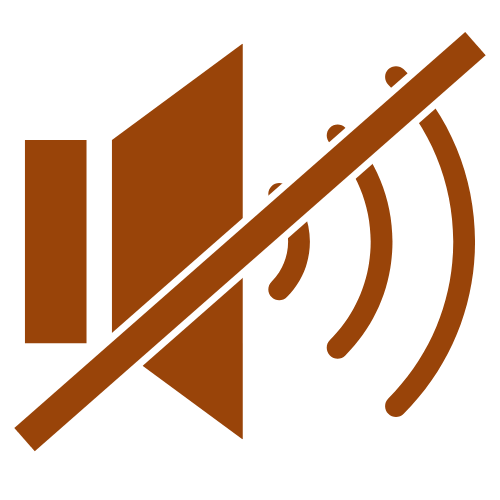
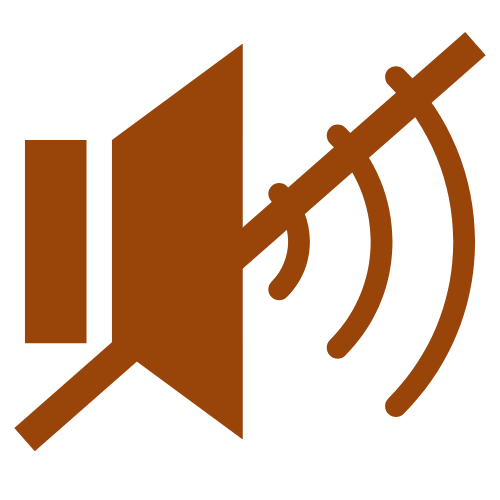
Added local storage for mute function – Game sound and background music can now be muted independently.

diff --git a/js/models/sound-mute.class.js b/js/models/sound-mute.class.js
@@ -8,23 +8,38 @@ class SoundsMuteIcon extends MovableObject {
     super();
 
     this.loadImage(this.nonMute);
-
     this.x = 650;
     this.y = 20;
     this.width = 50;
     this.height = 50;
 
+   
+    const storedSoundStatus = localStorage.getItem("soundMuted");
+    if (storedSoundStatus === "true") {
+      this.isMuted = true;
+      this.loadImage(this.mute);
+      
+    
+      if (this.world) {
+        this.world.jumpSound.setMute(true);
+        this.world.coinSound.setMute(true);
+        this.world.snoreSound.setMute(true);
+        this.world.bottleBrokenSound.setMute(true);
+        this.world.bottleCollectSound.setMute(true);
+        this.world.chickenHitSound.setMute(true);
+        this.world.characterHitSound.setMute(true);
+        this.world.buySound.setMute(true);
+        this.world.throwSound.setMute(true);
+      }
+    }
 
     canvas.addEventListener('click', this.onClick.bind(this));
   }
 
   onClick(event) {
-
     const rect = canvas.getBoundingClientRect();
-
     const mouseX = event.clientX - rect.left;
     const mouseY = event.clientY - rect.top;
-
 
     if (
       mouseX >= this.x && mouseX <= this.x + this.width &&
@@ -35,22 +50,24 @@ class SoundsMuteIcon extends MovableObject {
   }
 
   toggleSound() {
-   
     this.isMuted = !this.isMuted;
     const newImage = this.isMuted ? this.mute : this.nonMute;
     this.loadImage(newImage);
+
    
-    this.world.jumpSound.muted = this.isMuted ? true : false;
-    this.world.coinSound.muted       = this.isMuted ? true : false;
-    this.world.snoreSound.muted      = this.isMuted ? true : false;
-    this.world.bottleBrokenSound.muted  = this.isMuted ? true : false;
-    this.world.bottleCollectSound.muted = this.isMuted ? true : false;
-    this.world.chickenHitSound.muted    = this.isMuted ? true : false;
-    this.world.characterHitSound.muted  = this.isMuted ? true : false;
-    this.world.buySound.muted        = this.isMuted ? true : false;
-    this.world.throwSound.muted      = this.isMuted ? true : false;
-    
+    localStorage.setItem("soundMuted", this.isMuted.toString());
 
-
+    if (this.world) {
+      this.world.jumpSound.setMute(this.isMuted);
+      this.world.coinSound.setMute(this.isMuted);
+      this.world.snoreSound.setMute(this.isMuted);
+      this.world.bottleBrokenSound.setMute(this.isMuted);
+      this.world.bottleCollectSound.setMute(this.isMuted);
+      this.world.chickenHitSound.setMute(this.isMuted);
+      this.world.characterHitSound.setMute(this.isMuted);
+      this.world.buySound.setMute(this.isMuted);
+      this.world.throwSound.setMute(this.isMuted);
+    }
   }
 }
+

diff --git a/js/models/world.class.js b/js/models/world.class.js
@@ -14,13 +14,13 @@ class World {
   jumpSound = new PlayAudio("audio/jumppp11.ogg", false, 1);
   coinSound = new PlayAudio("audio/coin.mp3", false, 1 );
   snoreSound = new PlayAudio("audio/big-snore.mp3", true, 1 );
-  bottleBrokenSound = new PlayAudio("audio/bottle-broken.mp3", false,1);
-  bottleCollectSound = new PlayAudio("audio/glass-clinking.mp3", false, 1);
-  chickenHitSound = new PlayAudio("audio/chicken-hit.mp3", false, 1);
-  characterHitSound = new PlayAudio("audio/hit.mp3", false, 1);
-  buySound = new PlayAudio("audio/buy.mp3", false, 1);
-  throwSound = new PlayAudio("audio/throw.mp3", false, 1);
-  backgroundSound = new PlayAudio("audio/level-ix-211054.mp3", true, 0.8);
+  bottleBrokenSound = new PlayAudio("audio/bottle-broken.mp3", false,1,false);
+  bottleCollectSound = new PlayAudio("audio/glass-clinking.mp3", false, 1,false);
+  chickenHitSound = new PlayAudio("audio/chicken-hit.mp3", false, 1,false);
+  characterHitSound = new PlayAudio("audio/hit.mp3", false, 1,false);
+  buySound = new PlayAudio("audio/buy.mp3", false, 1 ,false);
+  throwSound = new PlayAudio("audio/throw.mp3", false, 1, false);
+  backgroundSound = new PlayAudio("audio/level-ix-211054.mp3", true, 0.8, true);
   SoundsMuteIcon = new SoundsMuteIcon();
   musicMuteIcon = new MusicsMuteIcon();
   
@@ -37,6 +37,7 @@ class World {
     this.draw();
     this.setWorld();
     this.run();
+    
     
   }
 
@@ -56,7 +57,6 @@ class World {
       this.checkCollisionBottleCollectib();
       this.checkCollisionCoinCollectib();
       this.checkCollisionSalsaStore();
-      this.backgroundSound.play();
     }, 50);
   }
 
@@ -177,7 +177,6 @@ class World {
 
   checkCollisionSalsaStore() {
     const now = Date.now();
-    // Überspringe den Kauf, wenn seit dem letzten Kauf weniger als 500ms vergangen sind
     if (this.lastPurchaseTime && now - this.lastPurchaseTime < 500) {
       return;
     }
@@ -229,6 +228,7 @@ class World {
     requestAnimationFrame(function () {
       self.draw();
     });
+  this.startBackroundsound()
   }
 
   addObjectsToMap(objects) {
@@ -257,4 +257,25 @@ class World {
     this.ctx.scale(-1, 1);
     mo.x = mo.x * -1;
   }
+
+
+  startBackroundsound() {
+    
+    let storedMuteStatus = localStorage.getItem("MusikMute");
+    
+    
+    if (storedMuteStatus === null) {
+      localStorage.setItem("MusikMute", "false");
+      storedMuteStatus = "false";
+    }
+    
+    
+    if (storedMuteStatus === "false") {
+      this.backgroundSound.play();
+    }
+  }
+  
+
+
 }
+

diff --git a/js/models/music-mute.class.js b/js/models/music-mute.class.js
@@ -14,17 +14,26 @@ class MusicsMuteIcon extends MovableObject {
     this.width = 50;
     this.height = 50;
 
+   
+    const storedMuteStatus = localStorage.getItem("MusikMute");
+    if (storedMuteStatus === "true") {
+      this.isMuted = true;
+      this.loadImage(this.mute);
+
+     
+      if (this.world && this.world.backgroundSound) {
+        this.world.backgroundSound.muted = true;
+        this.world.backgroundSound.pause();
+      }
+    }
 
     canvas.addEventListener('click', this.onClick.bind(this));
   }
 
   onClick(event) {
-
     const rect = canvas.getBoundingClientRect();
-
     const mouseX = event.clientX - rect.left;
     const mouseY = event.clientY - rect.top;
-
 
     if (
       mouseX >= this.x && mouseX <= this.x + this.width &&
@@ -35,13 +44,23 @@ class MusicsMuteIcon extends MovableObject {
   }
 
   toggleSound() {
-   
     this.isMuted = !this.isMuted;
     const newImage = this.isMuted ? this.mute : this.nonMute;
     this.loadImage(newImage);
-   
-    this.world.backgroundSound.muted = this.isMuted ? true : false;
-    this.world.backgroundSound.pause()
 
+    localStorage.setItem("MusikMute", this.isMuted.toString());
+
+    
+    if (this.world && this.world.backgroundSound) {
+      this.world.backgroundSound.muted = this.isMuted;
+
+      if (this.isMuted) {
+        this.world.backgroundSound.pause();
+      } else {
+        this.world.backgroundSound.play();
+
+        
+      }
+    }
   }
 }

diff --git a/js/models/play-audio.class.js b/js/models/play-audio.class.js
@@ -1,18 +1,33 @@
 class PlayAudio {
-  muted  = false;
-  constructor(audioSrc, shouldLoop = false, volume = 1) {
+  muted = false;
+
+  
+  constructor(audioSrc, shouldLoop = false, volume = 1, backroundSound = false) {
     this.audio = new Audio(audioSrc);
     this.audio.loop = shouldLoop;
     this.audio.volume = volume;
-  
+    this.backroundSound = backroundSound;
+    
+
+    if (this.backroundSound) {
+      const storedMusicMute = localStorage.getItem("musicMuted");
+      if (storedMusicMute === "true") {
+        this.muted = true;
+        this.audio.muted = true;
+      }
+    } else {
+      const storedSoundMute = localStorage.getItem("soundMuted");
+      if (storedSoundMute === "true") {
+        this.muted = true;
+        this.audio.muted = true;
+      }
+    }
   }
 
   play(newVolume) {
-
     if (this.muted) {
       return;
     }
-
     if (typeof newVolume === "number") {
       this.audio.volume = newVolume;
     }
@@ -27,5 +42,15 @@ class PlayAudio {
     this.audio.pause();
     this.audio.currentTime = 0;
   }
-}
 
+ 
+  setMute(isMuted) {
+    this.muted = isMuted;
+    this.audio.muted = isMuted;
+    if (this.backroundSound) {
+      localStorage.setItem("musicMuted", isMuted.toString());
+    } else {
+      localStorage.setItem("soundMuted", isMuted.toString());
+    }
+  }
+}
